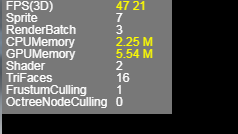
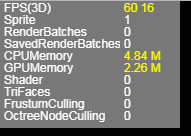
新版本统计面板

diff --git a/LayaAir2.0/Chinese/LayaAir_AS3/3D/QuickStart/Stat_panel_introduction/readme.md b/LayaAir2.0/Chinese/LayaAir_AS3/3D/QuickStart/Stat_panel_introduction/readme.md
@@ -1,28 +1,32 @@
 # Stat统计面板的介绍
 
+###### *version :2.2.0beta4   Update:2019-9-2*
+
 	为了方便开发者进行性能优化，LayaAir3D提供了一个性能统计面板——Stat统计面板，开发者可以实时查看相关的性能参数。
 
-        ![图](img/1.png)(图3)
+        ![图](img/1.png)(图1)
 
 参与统计的性能参数如下（所有参数都是每大约1秒进行更新），除去Fps都是越低性能越高：
 
-	 **FPS(Canvas)/FPS(WebGL)**：Canvas 模式或者 WebGL 模式下的帧频，也就是每秒显示的帧数，值越高、越稳定，感觉越流畅；
+	 **FPS(WebGL)/FPS(3D)：**Laya2D 模式或者 Laya3D 模式下的帧频，也就是每秒显示的帧数，值越高、越稳定，感觉越流畅；
 
-	**Sprite**：统计所有渲染节点（包括容器）数量，它的大小会影响引擎进行节点遍历、数据组织和渲染的效率。
+	**Sprite：**统计所有渲染节点（包括容器）数量，它的大小会影响引擎进行节点遍历、数据组织和渲染的效率。
 
-	**RenderBatch**：渲染批次；
+	**RenderBatches：**渲染批次；
 
-	**CPUMemory**:  CPU内存;
+	**SavedRenderBatches：** 合并的渲染批次；
 
-	**GPUMemory**: GPU显存 ;
+	**CPUMemory：**  CPU内存;
 
-	**Shader**: Shader提交次数 ;
+	**GPUMemory：** GPU显存 ;
 
-	**TriFaces **: 三角面 ;
+	**Shader：** Shader提交次数 ;
 
-	**Frustumculling**：摄像机的视锥裁剪次数；
+	**TriFaces：** 三角面 ;
 
-	**OctreeNodeCulling** : 八叉树节点裁剪次数，2.0.1bate版暂未实现，该功能会在后续的版本实现。
+	**Frustumculling：**摄像机的视锥裁剪次数；
+
+	**OctreeNodeCulling：**  八叉树节点裁剪次数；
 
 ### 如何开启Stat统计面板
 

diff --git a/LayaAir2.0/Chinese/LayaAir_JS/3D/QuickStart/Stat_panel_introduction/readme.md b/LayaAir2.0/Chinese/LayaAir_JS/3D/QuickStart/Stat_panel_introduction/readme.md
@@ -1,28 +1,32 @@
 # Stat统计面板的介绍
 
+###### *version :2.2.0beta4   Update:2019-9-2*
+
 	为了方便开发者进行性能优化，LayaAir3D提供了一个性能统计面板——Stat统计面板，开发者可以实时查看相关的性能参数。
 
-        ![图](img/1.png)(图3)
+        ![图](img/1.png)(图1)
 
 参与统计的性能参数如下（所有参数都是每大约1秒进行更新），除去Fps都是越低性能越高：
 
-	 **FPS(Canvas)/FPS(WebGL)**：Canvas 模式或者 WebGL 模式下的帧频，也就是每秒显示的帧数，值越高、越稳定，感觉越流畅；
+	 **FPS(WebGL)/FPS(3D)：**Laya2D 模式或者 Laya3D 模式下的帧频，也就是每秒显示的帧数，值越高、越稳定，感觉越流畅；
 
-	**Sprite**：统计所有渲染节点（包括容器）数量，它的大小会影响引擎进行节点遍历、数据组织和渲染的效率。
+	**Sprite：**统计所有渲染节点（包括容器）数量，它的大小会影响引擎进行节点遍历、数据组织和渲染的效率。
 
-	**RenderBatch**：渲染批次；
+	**RenderBatches：**渲染批次；
 
-	**CPUMemory**:  CPU内存;
+	**SavedRenderBatches：** 合并的渲染批次；
 
-	**GPUMemory**: GPU显存 ;
+	**CPUMemory：**  CPU内存;
 
-	**Shader**: Shader提交次数 ;
+	**GPUMemory：** GPU显存 ;
 
-	**TriFaces **: 三角面 ;
+	**Shader：** Shader提交次数 ;
 
-	**Frustumculling**：摄像机的视锥裁剪次数；
+	**TriFaces：** 三角面 ;
 
-	**OctreeNodeCulling** : 八叉树节点裁剪次数，2.0.1bate版暂未实现，该功能会在后续的版本实现。
+	**Frustumculling：**摄像机的视锥裁剪次数；
+
+	**OctreeNodeCulling：**  八叉树节点裁剪次数；
 
 ### 如何开启Stat统计面板
 

diff --git a/LayaAir2.0/Chinese/LayaAir_TS/3D/QuickStart/Stat_panel_introduction/readme.md b/LayaAir2.0/Chinese/LayaAir_TS/3D/QuickStart/Stat_panel_introduction/readme.md
@@ -1,28 +1,32 @@
 # Stat统计面板的介绍
 
+###### *version :2.2.0beta4   Update:2019-9-2*
+
 	为了方便开发者进行性能优化，LayaAir3D提供了一个性能统计面板——Stat统计面板，开发者可以实时查看相关的性能参数。
 
-        ![图](img/1.png)(图3)
+        ![图](img/1.png)(图1)
 
 参与统计的性能参数如下（所有参数都是每大约1秒进行更新），除去Fps都是越低性能越高：
 
-	 **FPS(Canvas)/FPS(WebGL)**：Canvas 模式或者 WebGL 模式下的帧频，也就是每秒显示的帧数，值越高、越稳定，感觉越流畅；
+	 **FPS(WebGL)/FPS(3D)：**Laya2D 模式或者 Laya3D 模式下的帧频，也就是每秒显示的帧数，值越高、越稳定，感觉越流畅；
 
-	**Sprite**：统计所有渲染节点（包括容器）数量，它的大小会影响引擎进行节点遍历、数据组织和渲染的效率。
+	**Sprite：**统计所有渲染节点（包括容器）数量，它的大小会影响引擎进行节点遍历、数据组织和渲染的效率。
 
-	**RenderBatch**：渲染批次；
+	**RenderBatches：**渲染批次；
 
-	**CPUMemory**:  CPU内存;
+	**SavedRenderBatches：** 合并的渲染批次；
 
-	**GPUMemory**: GPU显存 ;
+	**CPUMemory：**  CPU内存;
 
-	**Shader**: Shader提交次数 ;
+	**GPUMemory：** GPU显存 ;
 
-	**TriFaces **: 三角面 ;
+	**Shader：** Shader提交次数 ;
 
-	**Frustumculling**：摄像机的视锥裁剪次数；
+	**TriFaces：** 三角面 ;
 
-	**OctreeNodeCulling** : 八叉树节点裁剪次数，2.0.1bate版暂未实现，该功能会在后续的版本实现。
+	**Frustumculling：**摄像机的视锥裁剪次数；
+
+	**OctreeNodeCulling：**  八叉树节点裁剪次数；
 
 ### 如何开启Stat统计面板
 
